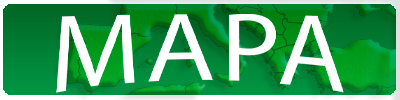
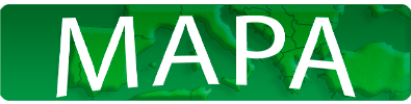
Añadida foto

diff --git a/lib/ui/pages/home.dart b/lib/ui/pages/home.dart
@@ -22,7 +22,7 @@ class HomeTab extends StatelessWidget {
               onPressed: null,
               child: new ConstrainedBox(
                 constraints: new BoxConstraints.expand(),
-                child: disabled ?  Image(image: new AssetImage('assets/img/mapa.png')): Image(image: new AssetImage('assets/img/backImg.png')),
+                child: Image(image: new AssetImage('assets/img/mapa.png')),
               ),
             ),
           ),
@@ -33,10 +33,9 @@ class HomeTab extends StatelessWidget {
             child: new FlatButton(
               onPressed: null,
               child: new ConstrainedBox(
-                  constraints: new BoxConstraints.expand(),
-                  child: new Image.network(
-                      "https://orig00.deviantart.net/c3cc/f/2009/117/6/8/imvu__new_banner_by_chibikinesis.gif",
-                      fit: BoxFit.fill)),
+                constraints: new BoxConstraints.expand(),
+                child: Image(image: new AssetImage('assets/img/mapa.png')),
+              ),
             ),
           ),
           Container(
@@ -46,10 +45,9 @@ class HomeTab extends StatelessWidget {
             child: new FlatButton(
               onPressed: null,
               child: new ConstrainedBox(
-                  constraints: new BoxConstraints.expand(),
-                  child: new Image.network(
-                      "https://www.fundacion-affinity.org/sites/default/files/el-gato-necesita-tener-acceso-al-exterior.jpg",
-                      fit: BoxFit.fill)),
+                constraints: new BoxConstraints.expand(),
+                child: Image(image: new AssetImage('assets/img/mapa.png')),
+              ),
             ),
           ),
           Container(
@@ -59,10 +57,11 @@ class HomeTab extends StatelessWidget {
             child: new FlatButton(
               onPressed: null,
               child: new ConstrainedBox(
-                  constraints: new BoxConstraints.expand(),
-                  child: new Image.network(
-                      "https://www.fundacion-affinity.org/sites/default/files/el-gato-necesita-tener-acceso-al-exterior.jpg",
-                      fit: BoxFit.fill)),
+                constraints: new BoxConstraints.expand(),
+                child: disabled
+                    ? Image(image: new AssetImage('assets/img/mapa.png'))
+                    : Image(image: new AssetImage('assets/img/backImg.png')),
+              ),
             ),
           ),
         ],

diff --git a/lib/widgets/mysql.dart b/lib/widgets/mysql.dart
@@ -1,6 +1,6 @@
 import 'package:project/model/user.dart';
-import 'package:mysql1/mysql1.dart';
 import 'dart:async';
+import 'package:mysql1/mysql1.dart';
 
 User user;
 String name="";
